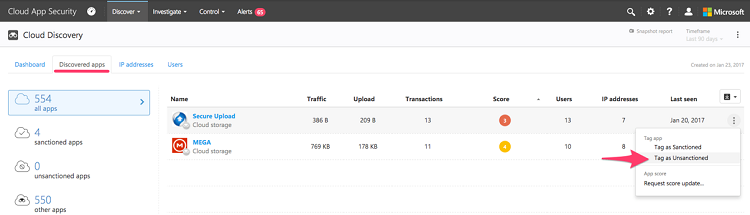
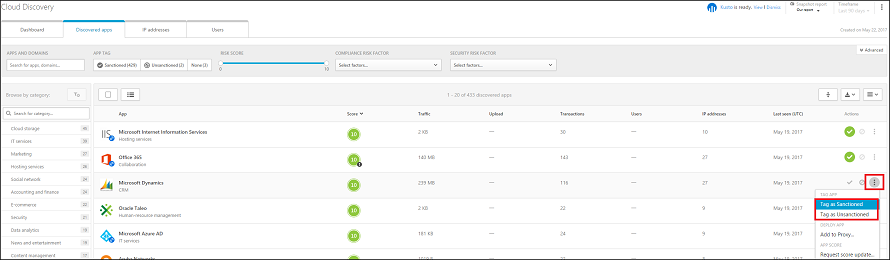
updated discovered apps after Danny and email corrections

diff --git a/CloudAppSecurityDocs/discovered-apps.md b/CloudAppSecurityDocs/discovered-apps.md
@@ -31,18 +31,23 @@ ms.suite: ems
 ## Identify risky apps
 Your first important task when you see the results provided to you by Cloud App Security's Cloud Discovery, is to review which apps were discovered and determine if they are risky or not.
 
-To do this, it's helpful to use the popular searches and the filters to review the apps that were discovered as being used in your environment.
+To do this, it's helpful to use the filters to review the apps that were discovered as being used in your environment.
 
 ### Discovered app filters
 
-- **App tag**: select whether the app was sanctioned or unsactioned or not.
+![Discovered apps](./media/discovered-apps.png)  
+
+
+- **App tag**: select whether the app was sanctioned or unsanctioned or not.
 - **Apps and domains**: enables you to search for specific apps or apps used in specific domains 
-- **Compliance risk factor**: lets you search for a specific compliance factor (CSA Star level, DMCA, FINRA, FISMA, etc.)
+- **Compliance risk factor**: lets you search for a specific compliance factor (HIPAA, ISO 27001, SOC 2, PCI-DSS, etc.)
 - **General risk factor**: lets you search for apps by Consumer popularity, Data center locale, Domain, Domain registration (before or after date), Founded during a specific year, Headquarters in a specific locale, Holding (private or public), Hosting company, Logon URL, Vendor
 - **Risk score**: lets you filter apps by risk score so that you can focus on, for example, reviewing only very risky apps.
 - **Security risk factor**: enables you to filter based on
 - **Usage**: Lets you filter based on apps used by specific IP addresses or apps Last seen being used before a specific date (to enable you to weed out apps that are stale and no longer in use), apps with less than a specified amount of **Traffic**, apps with fewer than a specified amount of **Transactions**, apps with less than or more than a specified amount of data uploads, apps with more than or less than a specified amount of **Users**.
 
+>[!NOTE]
+> If at any point you want to clear the filters, you can do so by clicking the clear filters icon ![clear filters icon](./media/clear-filters.png).
 
 ## The Cloud App Catalog
 The Cloud App Catalog gives you a full picture of what Cloud Discovery knows how to identify. Cloud Discovery analyzes your traffic logs against Cloud App Security's cloud app catalog of over 14,000 cloud apps that are ranked and scored based on more than 50 attributes, to provide you with ongoing visibility into cloud use, Shadow IT, and the risk Shadow IT poses into your organization.
@@ -52,6 +57,8 @@ The **Cloud app catalog** rates risk for your cloud apps based on regulatory cer
 3.	Continuous analysis by the Cloud App Security cloud analyst team (for attributes such as encryption at rest).
 4.	Customer-based revision requests, based on customer submission requests for changes to the Cloud app catalog. All requests are reviewed by our cloud analyst team and updated based on their findings.
   
+![Cloud app catalog](./media/cloud-app-catalog.png)  
+
 ## Cloud Discovery data anonymization
 
 Cloud Discovery data anonymization enables you to protect user privacy. Once the data log is uploaded to the Cloud App Security portal, the log is sanitized and all username information is replaced with encrypted usernames. This way, all cloud activities are kept anonymous. For more information see [Cloud Discovery anonymization](cloud-discovery-anonymizer.md).
@@ -60,15 +67,39 @@ Cloud Discovery data anonymization enables you to protect user privacy. Once the
 
 After you have reviewed the list of discovered apps in your environment, you can secure your environment against unwanted app use in the following ways.
 
-**To generate a new block script:**
+# Governing discovered apps
+Cloud App Security enables you to block access to unsanctioned apps by leveraging your existing on-prem security appliances. Generate a dedicated block script and import it to your appliance.
+This solution does not require redirection of all of the organization's web traffic to a proxy.
 
 
-**To sanction/unsanction an app:**
+### To sanction/unsanction an app 
+
 You can unsanction a specific risky app by clicking the three dots at the end of the row and selecting **Unsanction**.
 Unsanctioning an app doesn't block use, but enables you to more easily monitor its use with the Cloud Discovery filters. 
 You can then notify users of the app that it has been unsanctioned and suggest an alternative, safe app for their use.
 
+![Tag as unsanctioned](./media/tag-as-unsanctioned.png)  
+
+
 If you have a list of apps you want to sanction or unsanction, you can use the checkbox to select all the apps you want to manage, and then select the action.
+
+### Export a block script to govern discovered apps
+
+1. In the Cloud Discovery dashboard, for any app that is **Unsanctioned**, in the title bar, click on the three dots and select **Generate block script...**. 
+
+   ![Generate block script](./media/generate-block-script.png)  
+
+3. In **Generate block script**, select the appliance you want to generate the block script for. 
+
+   ![Generate block script pop up](./media/generate-block-script-popup.png)  
+
+4. Then, click the Generate script button. This will create a block script for all your unsanctioned apps. By default, the file will be named with the date on which it was exported and the appliance type you selected, for example *2017-02-19_CAS_Fortigate_block_script.txt* 
+
+   ![Generate block script button](./media/generate-block-script-button.png)  
+
+5. Import the file created to your appliance.
+
+
 
 **To create a new policy from search:**
 After you have search results filtered for specific apps you want to apply specific actions to, you can create a new policy from your filtered search results.

diff --git a/CloudAppSecurityDocs/set-up-cloud-discovery.md b/CloudAppSecurityDocs/set-up-cloud-discovery.md
@@ -7,7 +7,7 @@ keywords:
 author: rkarlin
 ms.author: rkarlin
 manager: mbaldwin
-ms.date: 5/23/2017
+ms.date: 6/1/2017
 ms.topic: get-started-article
 ms.prod:
 ms.service: cloud-app-security
@@ -107,6 +107,8 @@ In order to successfully generate a Cloud Discovery report, your traffic logs mu
 - Websense - Web Security Solutions - Internet activity log (CEF)
 - Zscaler
 
+> [!NOTE]
+> Cloud Discovery supports both IPv4 and IPv6 addresses.
 
 If your log is not supported, select **Other** as the **Data source** and specify the appliance and log you are trying to upload. Your log will be reviewed by the Cloud App Security cloud analyst team and you will be notified if support for your log type is added. Alternatively, you can define a custom parser that matches your format. For more information see [Use a custom log parser](custom-log-parser.md).
 
@@ -129,7 +131,7 @@ Data attributes (according to vendor documentation):
 |Juniper SSG|No|**Yes**|No|**Yes**|**Yes**|**Yes**|
 |McAfee SWG|**Yes**|No|No|**Yes**|**Yes**|**Yes**|
 |MS TMG|**Yes**|No|**Yes**|**Yes**|**Yes**|**Yes**|
-|Palo Alto Networks|**Yes**|**Yes**|**Yes**|**Yes**\*|**Yes**|**Yes**|
+|Palo Alto Networks|**Yes**|**Yes**|**Yes**|**Yes**|**Yes**|**Yes**|
 |Sophos|**Yes**|**Yes**|**Yes**|**Yes**|**Yes**|No|
 |Squid (Common)|**Yes**|No|**Yes**|**Yes**|No|**Yes**|
 |Squid (Native)|**Yes**|No|**Yes**|**Yes**|No|**Yes**|
@@ -137,7 +139,7 @@ Data attributes (according to vendor documentation):
 |Websense - Internet activity log (CEF)|**Yes**|**Yes**|**Yes**|**Yes**|**Yes**|**Yes**|
 |Zscaler|**Yes**|No|**Yes**|No|**Yes**|**Yes**|
 
-\* Cloud Discovery supports IPv6.
+
 
 ## See also
  

diff --git a/CloudAppSecurityDocs/activity-filters.md b/CloudAppSecurityDocs/activity-filters.md
@@ -7,7 +7,7 @@ keywords:
 author: rkarlin
 ms.author: rkarlin
 manager: mbaldwin
-ms.date: 5/10/2017
+ms.date: 6/1/2017
 ms.topic: article
 ms.prod:
 ms.service: cloud-app-security
@@ -87,7 +87,7 @@ Below is a list of the activity filters that can be applied. Most filters suppor
    The built-in IP tags include:
     - Microsoft apps (14 of them)
     - Anonymous proxy
-    - Botnet
+    - Botnet (you will see that the activity was performed by a botnet with a link to learn more about the specific botnet)
     - Darknet scanning IP
     - Malware C&C server
     - Remote Connectivity Analyzer
@@ -124,7 +124,9 @@ Below is a list of the activity filters that can be applied. Most filters suppor
   
 -   User agent tag – Built-in user agent tag, for example, all activities from an outdated browser or outdated operating systems.  
     
-  
+>[!NOTE]
+> If at any point you want to clear the filters, you can do so by clicking the clear filters icon ![clear filters icon](./media/clear-filters.png).
+
 ## Working with the Activity drawer
 
 You can view more information about each activity, by clicking on the Activity itself in the Activity log. This opens the Activity drawer which provides the following additional actions you can take on the file:

diff --git a/CloudAppSecurityDocs/general-setup.md b/CloudAppSecurityDocs/general-setup.md
@@ -7,7 +7,7 @@ keywords:
 author: rkarlin
 ms.author: rkarlin
 manager: mbaldwin
-ms.date: 5/10/2017
+ms.date: 6/1/2017
 ms.topic: get-started-article
 ms.prod:
 ms.service: cloud-app-security
@@ -28,6 +28,14 @@ ms.suite: ems
 
 # Basic set up
 The following procedure gives you instructions for customizing the Cloud App Security portal.
+
+## Prerequisites 
+For portal access it is necessary to add the following IP addresses to your Firewall's whitelist to provide access for the Cloud App Security portal:  
+  
+- 104.42.231.28  
+  
+> [!NOTE]  
+>  To get updates when URLs and IP addresses are changed, subscribe to the RSS as explained in: [Office 365 URLs and IP address ranges](https://support.office.com/article/Office-365-URLs-and-IP-address-ranges-8548a211-3fe7-47cb-abb1-355ea5aa88a2).  
   
 ## Set up the portal  
   

diff --git a/CloudAppSecurityDocs/file-filters.md b/CloudAppSecurityDocs/file-filters.md
@@ -7,7 +7,7 @@ keywords:
 author: rkarlin
 ms.author: rkarlin
 manager: mbaldwin
-ms.date: 5/10/2017
+ms.date: 6/10/2017
 ms.topic: article
 ms.prod:
 ms.service: cloud-app-security
@@ -121,6 +121,9 @@ You can also set the policy to run on specific files by setting the **Apply to**
   
 ![apply to filter](./media/apply-to-filter.png "apply to filter")  
   
+>[!NOTE]
+> If at any point you want to clear the filters, you can do so by clicking the clear filters icon ![clear filters icon](./media/clear-filters.png).
+
 ## Working with the File drawer
 
 You can view more information about each file, by clicking on the File itself in the File log. This opens the File drawer which provides the following additional actions you can take on the file:

diff --git a/CloudAppSecurityDocs/TOC.md b/CloudAppSecurityDocs/TOC.md
@@ -28,6 +28,7 @@
 ## Scenarios
 ### [Protecting your organization against ransomware](use-case-ransomware.md)
 ## [Discover](working-with-cloud-discovery-data.md)
+### [Investigate discovered apps](discovered-apps.md)
 ### [Working with the risk score](risk-score.md)
 ## [Investigate](investigate.md)
 ### [Activities](activity-filters.md)
@@ -48,7 +49,6 @@
 ##### [Working with the RegEx engine](working-with-the-regex-engine.md)
 #### [Policy template reference](policy-template-reference.md)
 ### [Govern connected apps](governance-actions.md)
-### [Govern discovered apps](governance-discovery.md)
 ## Integrate
 ### [Azure Information Protection integration](azip-integration.md)
 ### [SIEM integration](siem.md)

diff --git a/CloudAppSecurityDocs/ip-tags.md b/CloudAppSecurityDocs/ip-tags.md
@@ -7,7 +7,7 @@ keywords:
 author: rkarlin
 ms.author: rkarlin
 manager: mbaldwin
-ms.date: 3/29/2017
+ms.date: 6/1/2017
 ms.topic: get-started-article
 ms.prod:
 ms.service: cloud-app-security
@@ -38,7 +38,7 @@ Cloud App Security comes preconfigured with built-in tags for the following IP a
 - Outdated operating system
 - Managed devices
 - Anonymous proxy
-- Botnet
+- Botnet (when an activity was performed by a botnet, you will receive a link to learn more about the specific botnet)
 - Tor
 - Compliant device
 - Verified device
